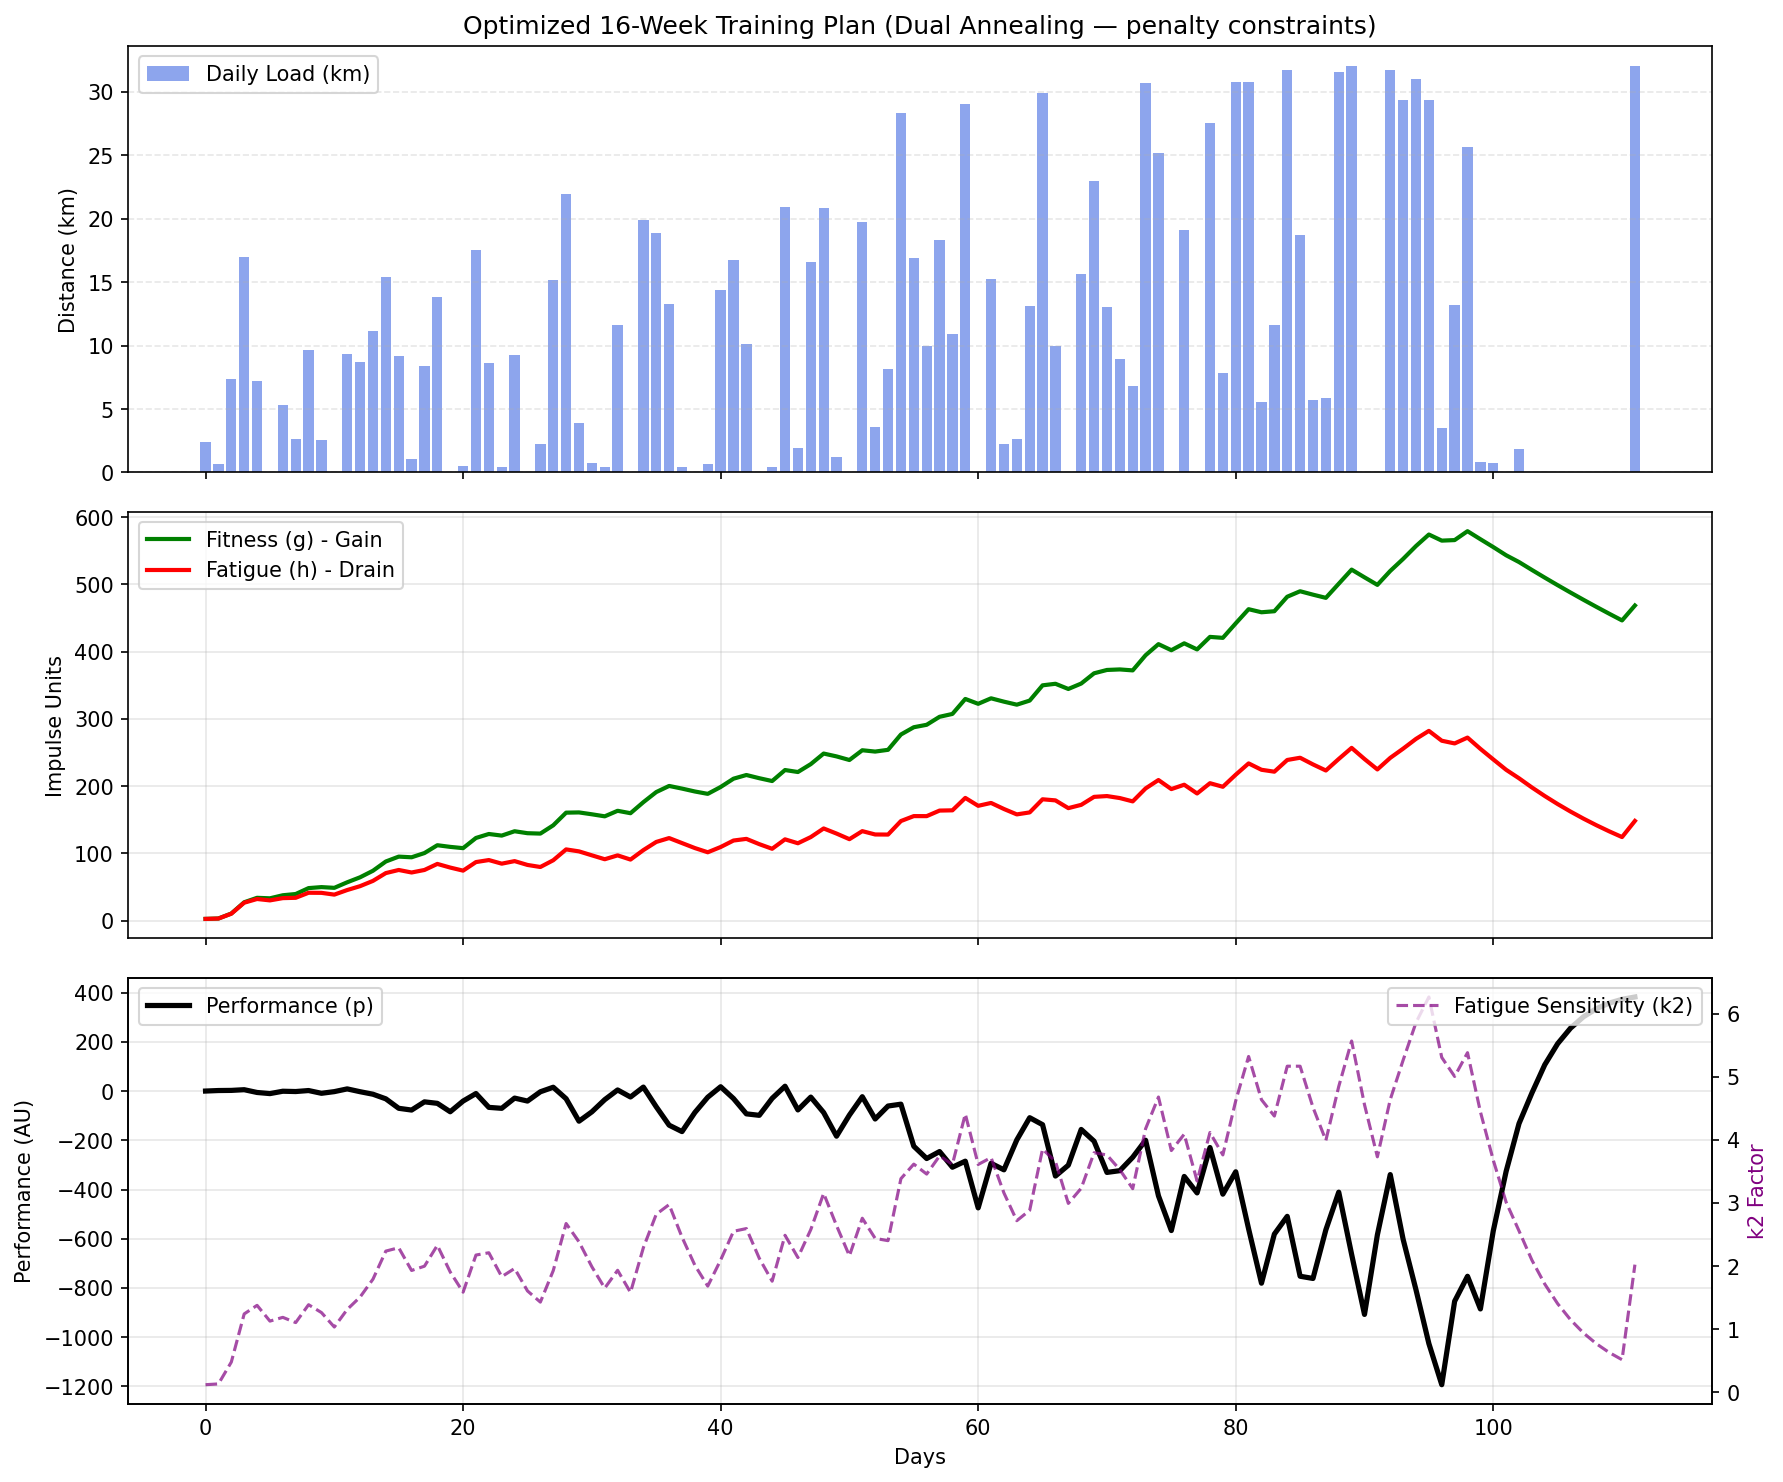
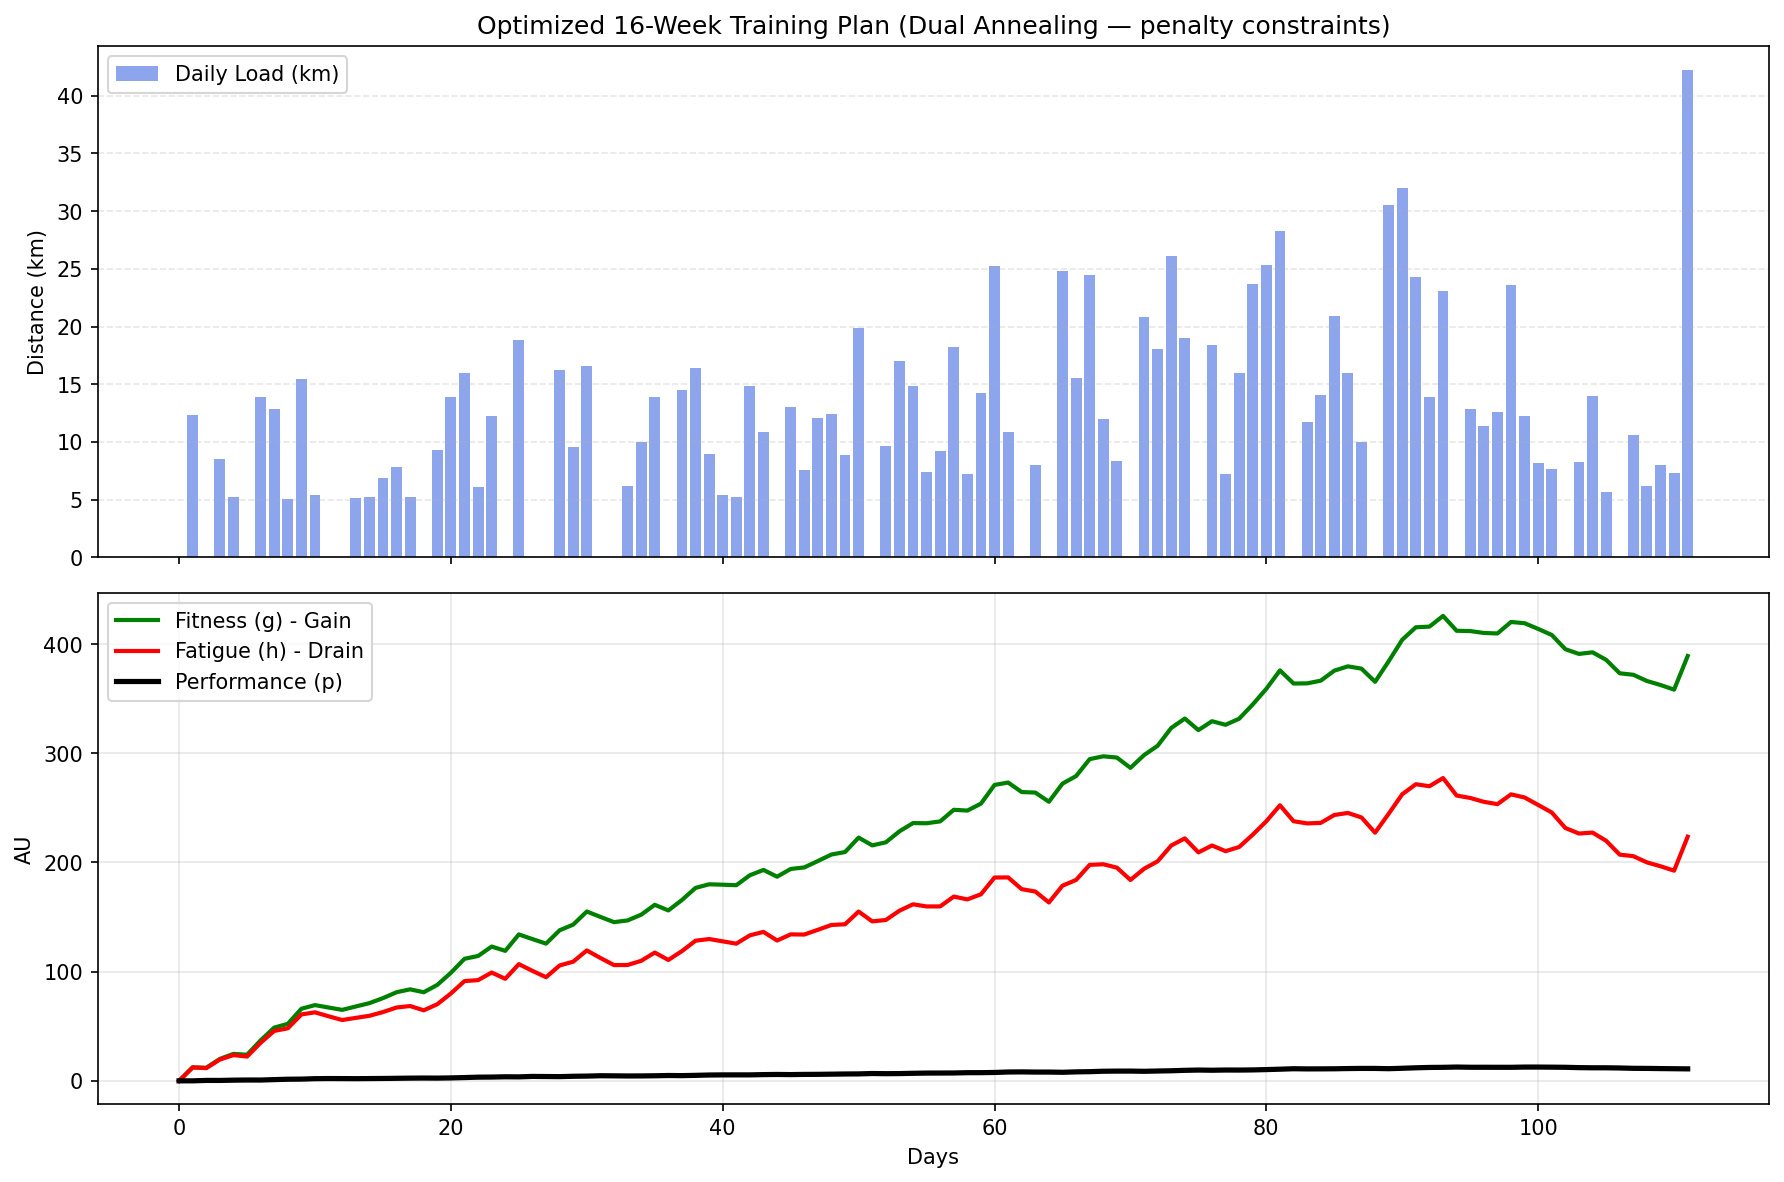
add tapering, hard coded marathon day and final plots

diff --git a/fiona/simulated_annealing.py b/fiona/simulated_annealing.py
@@ -196,15 +196,12 @@ def busso_objective_penalty(loads: np.ndarray) -> float:
     # Penalty 5b: no run above MAX_RUN_KM
     penalty += np.sum(np.maximum(0, loads - MAX_RUN_KM) ** 2)
 
-    # Penalty 6: race day = MARATHON_KM
-    penalty += (loads[-1] - MARATHON_KM) ** 2
-
-    # Penalty 7: tapering — last 2 weeks must reduce volume relative to peak
-    #   week n-2 must be ≤ 80 % of the peak non-taper week; week n-1 ≤ 60 %
-    if n_weeks >= 3:
-        peak_vol = max(loads[w*7:(w+1)*7].sum() for w in range(n_weeks - 2))
-        for taper_idx, taper_cap in enumerate([0.80, 0.60]):
-            w = n_weeks - 2 + taper_idx
+    # Penalty 7: tapering — last 3 weeks must reduce volume relative to peak
+    #   week n-3 must be ≤ 80 %, week n-2 ≤ 60 %, week n-1 ≤ 35 % of peak
+    if n_weeks >= 4:
+        peak_vol = max(loads[w*7:(w+1)*7].sum() for w in range(n_weeks - 3))
+        for taper_idx, taper_cap in enumerate([0.80, 0.60, 0.35]):
+            w = n_weeks - 3 + taper_idx
             week_sum = loads[w*7 : (w+1)*7].sum()
             penalty += max(0, week_sum - taper_cap * peak_vol) ** 2
 
@@ -212,6 +209,9 @@ def busso_objective_penalty(loads: np.ndarray) -> float:
     #   penalise by the squared distance to the nearest feasible value
     in_gap = (loads > 0) & (loads < 5)
     penalty += np.sum(np.minimum(loads, 5 - loads)[in_gap] ** 2)
+
+    # Penalty 6: race day = MARATHON_KM
+    # penalty += (loads[-1] - MARATHON_KM) ** 4
 
     return objective + PENALTY_WEIGHT * penalty
 
@@ -255,6 +255,7 @@ res_penalty = dual_annealing(
 loads_penalty = res_penalty.x
 
 # perf_hard,    g_hard,    h_hard,    k2_hard    = simulate_busso(loads_hard,    params_busso)
+loads_penalty[-1] = MARATHON_KM
 perf_penalty, g_penalty, h_penalty, k2_penalty = simulate_busso(loads_penalty, params_busso)
 
 def constraint_report(label: str, loads: np.ndarray) -> None:
@@ -289,6 +290,7 @@ print("=" * 55)
 # print(f'Function evaluations hard: {res_hard.nfev}')
 print(f'Iterations penalty: {res_penalty.nit}')
 print(f'Function evaluations penalty: {res_penalty.nfev}')
+print(f"Final Race-Day Performance: {perf_penalty[-1]:.2f} AU")
 
 # Point downstream plotting/printing at whichever result you want to inspect.
 # Change this flag to 'penalty' to switch.
@@ -306,11 +308,9 @@ print(f'Function evaluations penalty: {res_penalty.nfev}')
 import os
 script_dir = os.path.dirname(os.path.abspath(__file__))
 
-
-
 def plot_performance_dynamics(loads, perf, g, h, k2, INSPECT):
     days = np.arange(len(loads))
-    fig, (ax1, ax2, ax3) = plt.subplots(3, 1, figsize=(12, 10), sharex=True)
+    fig, (ax1, ax2) = plt.subplots(2, 1, figsize=(12, 8), sharex=True)
 
     ax1.bar(days, loads, color='royalblue', alpha=0.6, label='Daily Load (km)')
     ax1.set_ylabel('Distance (km)')
@@ -320,26 +320,14 @@ def plot_performance_dynamics(loads, perf, g, h, k2, INSPECT):
 
     ax2.plot(days, g, color='green', linewidth=2, label='Fitness (g) - Gain')
     ax2.plot(days, h, color='red', linewidth=2, label='Fatigue (h) - Drain')
-    ax2.set_ylabel('Impulse Units')
+    ax2.plot(days, perf, color='black', linewidth=2.5, label='Performance (p)')
+    ax2.set_ylabel('AU')
+    ax2.set_xlabel('Days')
     ax2.legend()
     ax2.grid(alpha=0.3)
 
-    # Subplot 3: Race Readiness (p) & Fatigue Sensitivity (k2)
-    ax3.plot(days, perf, color='black', linewidth=2.5, label='Performance (p)')
-    ax3.set_ylabel('Performance (AU)', color='black')
-
-    # Create a second y-axis for k2 since its scale is much smaller (e.g., 0.0005)
-    ax3b = ax3.twinx()
-    ax3b.plot(days, k2, color='purple', linestyle='--', alpha=0.7, label='Fatigue Sensitivity (k2)')
-    ax3b.set_ylabel('k2 Factor', color='purple')
-
-    ax3.set_xlabel('Days')
-    ax3.legend(loc='upper left')
-    ax3b.legend(loc='upper right')
-    ax3.grid(alpha=0.3)
-
     plt.tight_layout()
-    plt.savefig(os.path.join(script_dir, f"simulated_annealing_performance_{INSPECT}v3.png"), dpi=150, bbox_inches='tight')
+    plt.savefig(os.path.join(script_dir, f"simulated_annealing_performance_{INSPECT}.png"), dpi=150, bbox_inches='tight')
     # plt.show()
 
 
